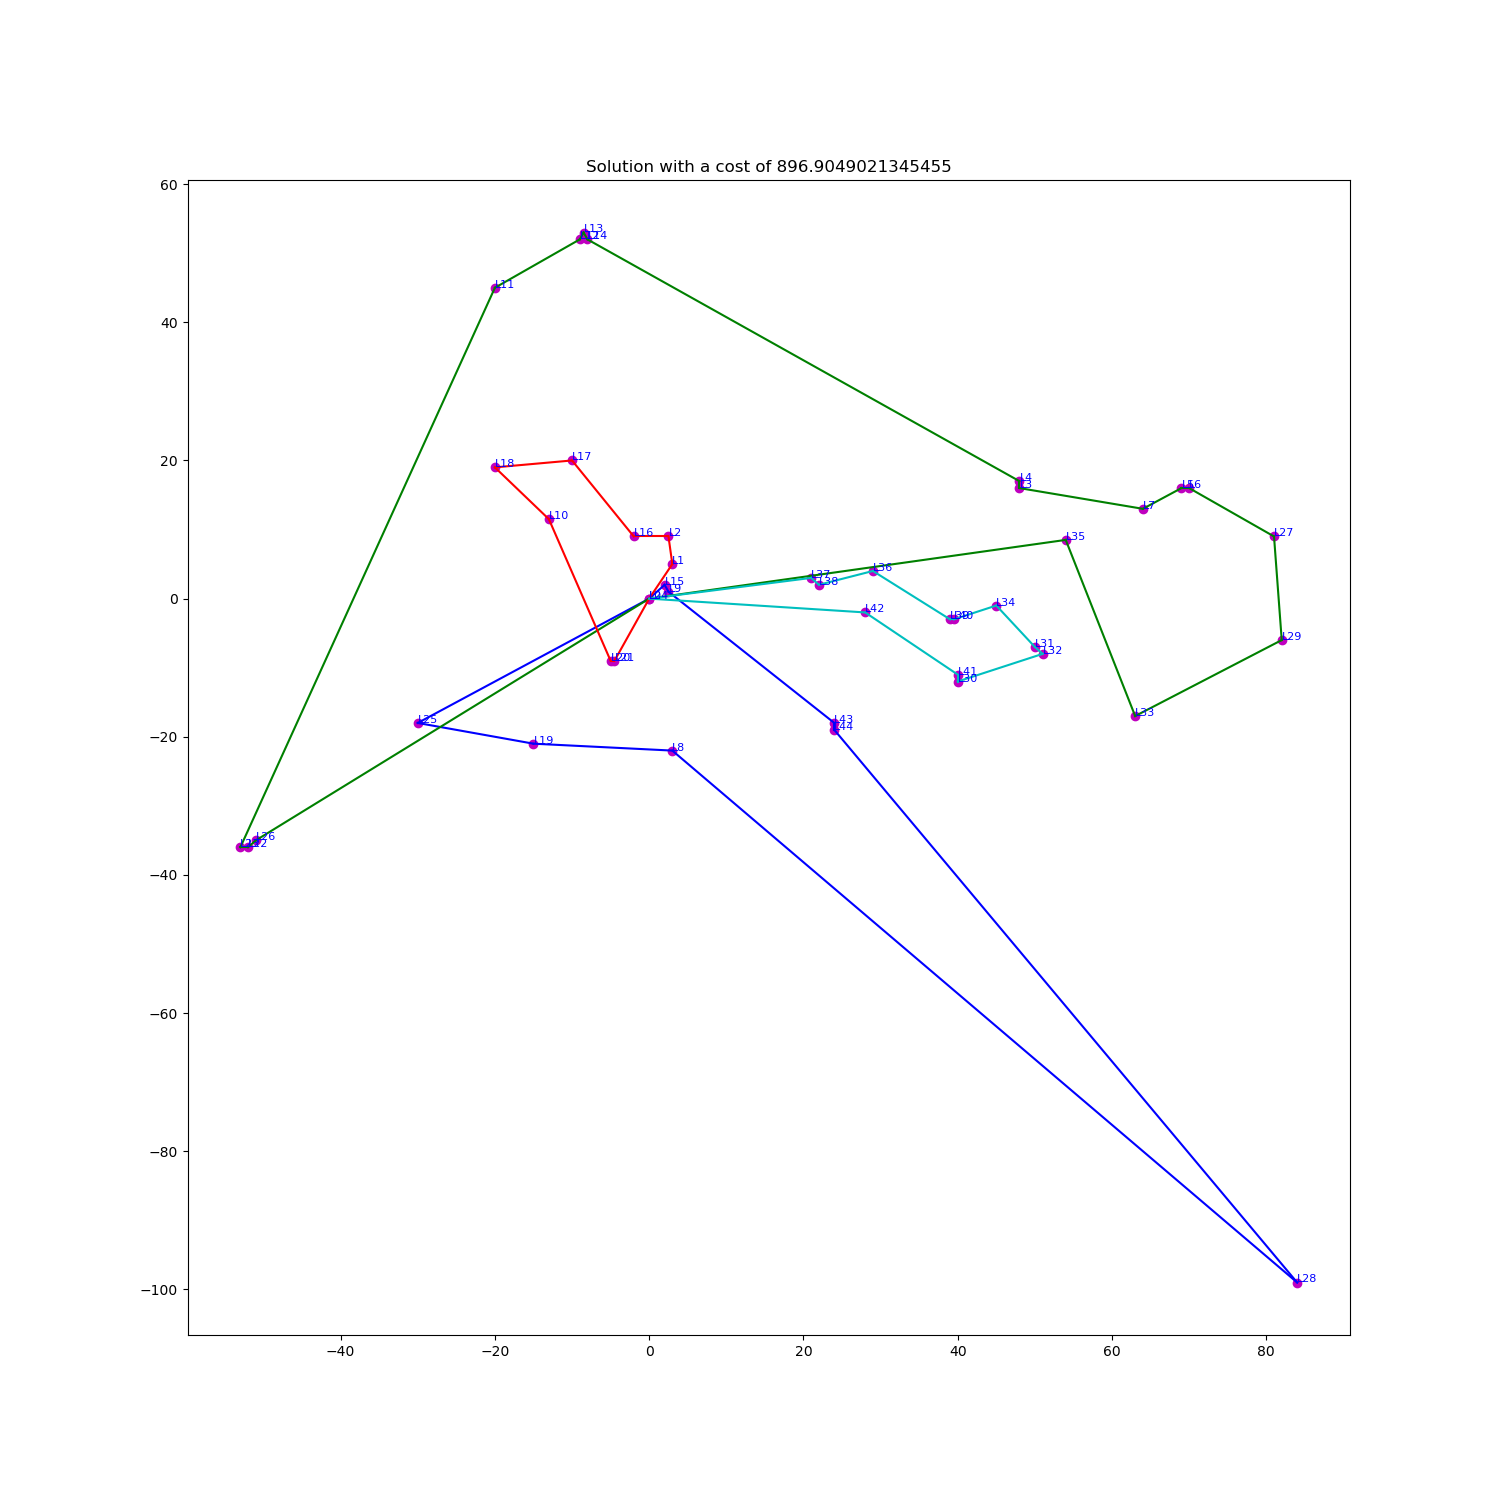
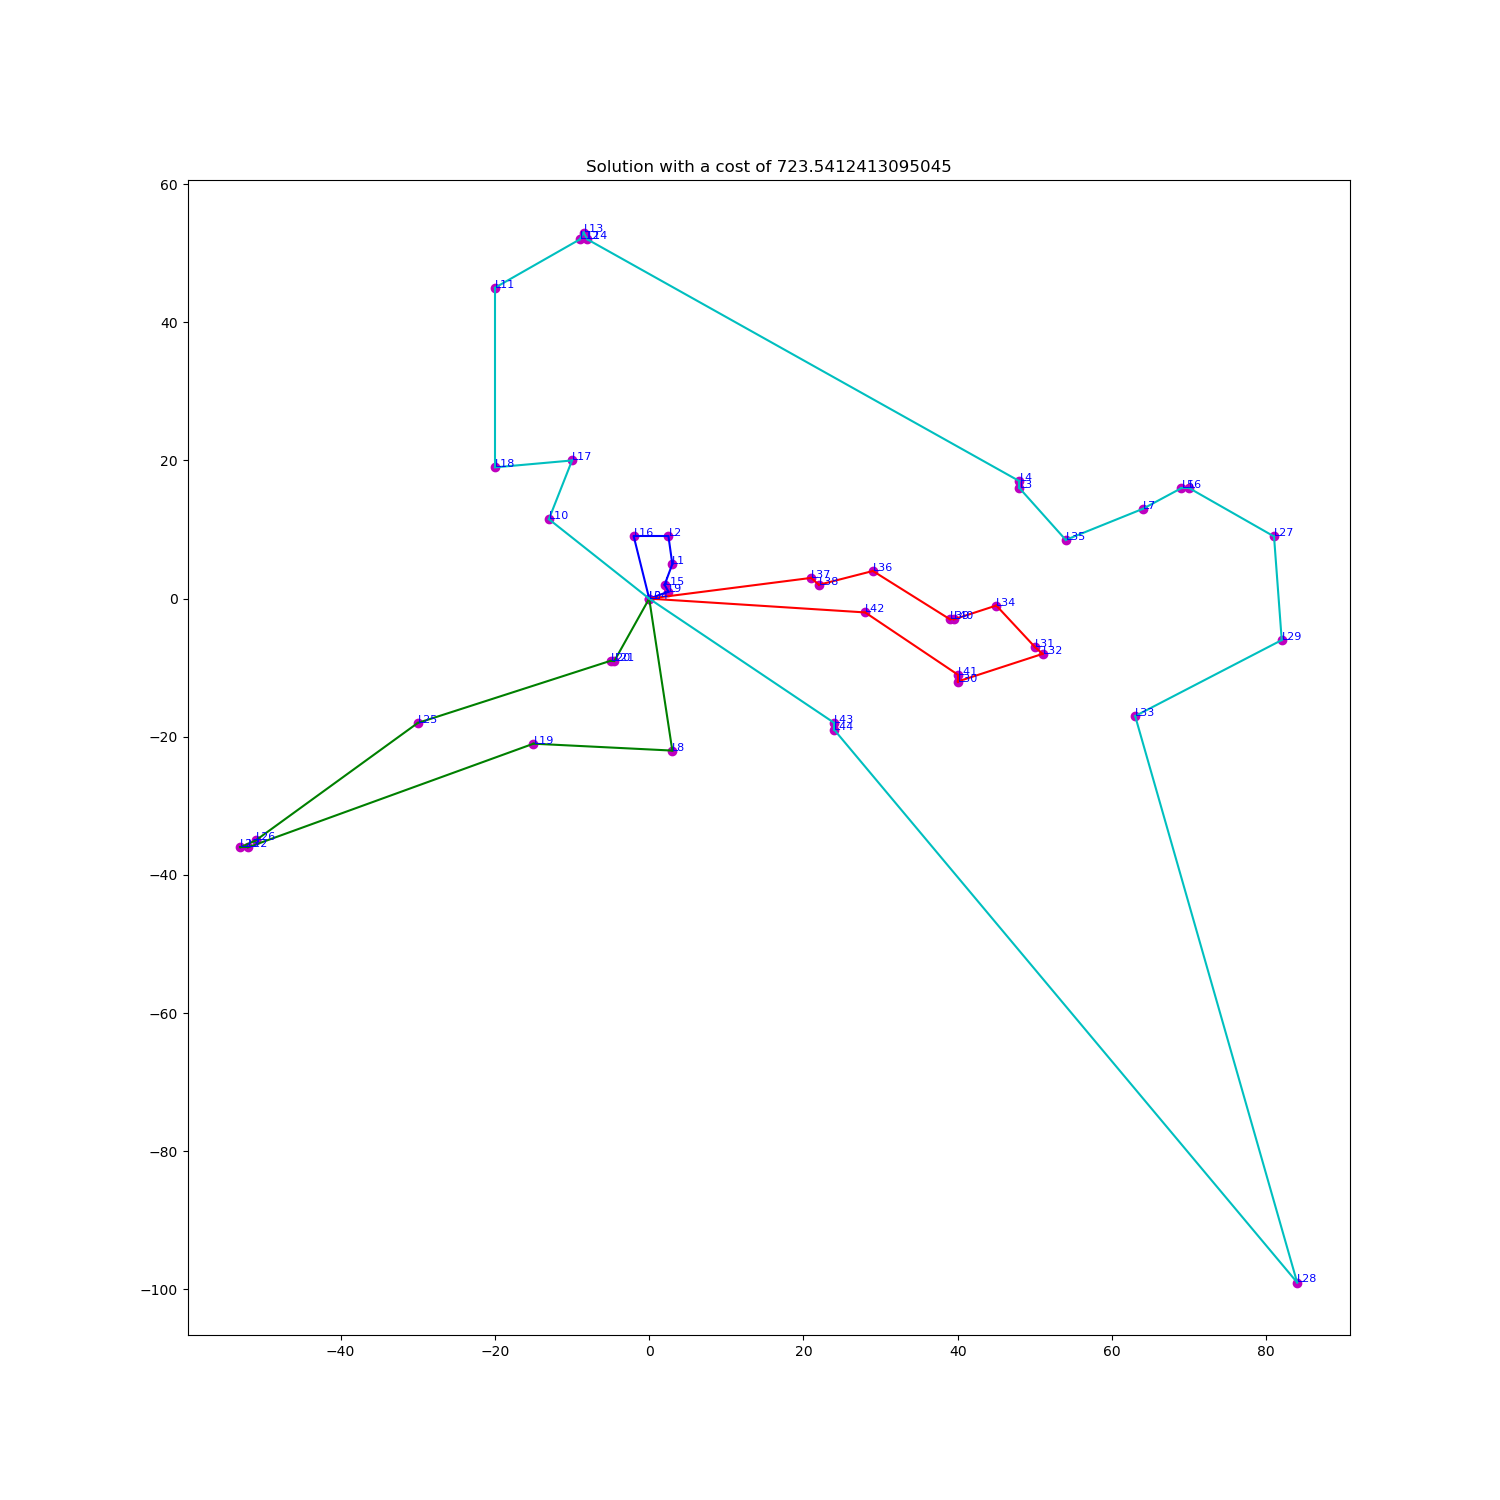
final code

diff --git a/solver.py b/solver.py
@@ -155,7 +155,8 @@ def kMeans(k,W,clients):
         for r in routes:
             r.append(0)
 
-        if areRoutesValid(routes,W,clients): return routes
+        if areRoutesValid(routes,W,clients): 
+            return routes
 
 
     # if routes not valid compared to total capacity of vehicles
@@ -199,6 +200,8 @@ def kMeans(k,W,clients):
                 # print(centroids_available_copy)
                 # get the closest centroid_available from the client
                 index_centroid_available = closestPoint(point_client,centroids_available_copy)
+                if index_centroid_available == None:
+                    return False
                 closest = centroids_available_copy[index_centroid_available]
                 # print("closest",closest)
 
@@ -219,30 +222,8 @@ def kMeans(k,W,clients):
 
     return routes
 
-
 def optimize_route(routes,clients,nb_iterations): 
-    # 2 opt, but with some tweaks
-    for i in range(len(routes)):
-        r = routes[i]
-        best = r
-        cost = getCost([r],clients)
-        route = r[1:-1]
-        for _ in range(nb_iterations):
-            p = list(permutations(range(len(route)),2))
-            random.shuffle(p)
-            for permut in p:
-                save = route[permut[0]]
-                route[permut[0]] = route[permut[1]]
-                route[permut[1]] = save # we keep the 2opt for the next one
-                new_route = [0] + route + [0]
-                new_cost = getCost([new_route],clients)
-                if new_cost < cost:
-                    best = new_route
-                    cost = new_cost
-        routes[i] = best
-    return routes
-
-def optimize_route2(routes,clients,nb_iterations): # real 2 opt
+    # 2 opt
     for i in range(len(routes)):
         r = routes[i]
         best = r
@@ -294,20 +275,26 @@ def generate_neighboorhood(routes):
                         neighbors.append(new_routes)
     return neighbors
 
-def generate_neighboorhood2(routes):
-    # for each client
-    # we create a new neighbor where that client can be in any other vehicle client list
-    # at any position in the list
+def generate_neighboorhood_faster(routes,W,clients):
+    # for each client we create a new neighbor where that client can be in any other vehicle (taken at random) at a random position
+    # as we don't create a neighbor for each case, this function is faster than the previous one
+    # also we validate the neighbor before adding it, so no need to call validate neighborhood after
     neighbors = []
     for i in range(len(routes)):
         for j in range(1,len(routes[i])-1): # for each client
-            for k in range(len(routes)): # for each vehicle
-                if k != i: # we don't put the client in the same vehicle client list
-                    insert_at = random.randint(1,len(routes)-2)
-                    new_routes = copy.deepcopy(routes)
-                    id = new_routes[i].pop(j) # remove the client from inial positon
-                    list.insert(new_routes[k],insert_at,id) # insert in new position
-                    neighbors.append(new_routes)
+            insert_in = [var_ for var_ in range(len(routes))]
+            insert_in.pop(i)
+            k = random.choice(insert_in) # random route to insert client
+            # sum = 0
+            # r = routes[k]
+            # for c in r:
+            #     sum += clients[c].demande
+            # if sum + clients[routes[i][j]].demande <= W and r[0] == 0 and r[-1] == 0:
+            insert_at = random.randint(1,len(routes)-2)
+            new_routes = copy.deepcopy(routes)
+            id = new_routes[i].pop(j) # remove the client from inial positon
+            list.insert(new_routes[k],insert_at,id) # insert in new position random
+            neighbors.append(new_routes)
     return neighbors
 
 
@@ -342,74 +329,89 @@ def solve_advance(n, k, W, points):
              routes is a list of list of int describing the routes of the vehicules
     """
     # TODO implement here your solution
-    # get time
-    start_time = time.time()
+
+    total_time = time.time()
 
     clients = [Client(i,p[0],Point(*p[1],)) for i,p in enumerate(points)]
     # id = 0 is storage
 
-    s = kMeans(k,W,clients)
-    s = optimize_route2(s,clients,50)
-    # s = greedy_routes(k,W,clients)
+    best_s = None
+    best_f = 1e10
 
-    # nb_iterations = 1000
-    T = 1
-    alphaT = 0.9
-    # scaling coefficient for reinitializing temp
-    betaT = 100
-
-    fs = getCost(s,clients)
-    star = s
-    fstar = fs
-    fstar_prev = fstar
-
-    re_count = 0
-    re_lim = 20
+    nb_restart = 30
+    for _ in range(nb_restart):
+        print("START")
+        # get time
+        start_time = time.time()
 
 
-    iterations_for_2opt = 10
-    k = 0
-    execution_time = 2 # in minutes
-    change = True
-    while time.time() - start_time < execution_time * 60:
-        if k % 500 == 0: 
-            print(k,fs)
-        if change:
+        s = kMeans(k,W,clients)
+        while s == False:
+            s = kMeans(k,W,clients)
+        # s = greedy_routes(k,W,clients)
+        s = optimize_route(s,clients,15)
+
+        T = 5
+        maxT = T
+        alphaT = 0.97
+        betaT = 2 # scaling coefficient for reheating
+
+        fs = getCost(s,clients)
+        star = s
+        fstar = fs
+
+        re_count = 0
+        re_lim = 30
+
+        iterations_for_2opt = 1
+        i = 0
+        execution_time = 10 / nb_restart # in minutes
+        # execution_time = 0.5 # in minutes
+        change = True
+        while time.time() - start_time < execution_time * 60:
+            # if i % 500 == 0: print(i,fs)
             if re_count >= re_lim:
                 # if restart limit has be reached, we regenerate neighborhood on best solution
                 # Restart on previous best's neighborhood
-                G = generate_neighboorhood(star)
+                # G = generate_neighboorhood(star)
                 re_count = 0 # reset counter
-                T *= betaT # "reheat the algorithm" = increase T
-            else:
+                T = min(T + betaT, maxT) # "reheat the algorithm" = increase T, but shouldn't go too hot
+                print(T)
+            if change:
                 # if we keep the same s, no use to redo generation and validation
+                # G = generate_neighboorhood_faster(s,W,clients)
                 G = generate_neighboorhood(s)
-            V = validate_neighboorhood(G, clients, W)
-            change = False
-        c = V[random.randint(0,len(V)-1)]
-        c = optimize_route(c,clients,iterations_for_2opt)
-        fc = getCost(c,clients)
-        delta = fc - fs
-        if delta <= 0 or random.random() < math.exp(-delta/T):
-            s = c
-            fs = fc
-            if fs < fstar:
-                # if we improve the best sol'n, restart counter resets
-                re_count = 0
-                star = s
-                fstar = fs
-                T = alphaT * T
-                print(k,fstar)
-            if fstar_prev == fstar:
+                V = validate_neighboorhood(G, clients, W)
+                change = False
+            c = V[random.randint(0,len(V)-1)]
+            c = optimize_route(c,clients,iterations_for_2opt)
+            fc = getCost(c,clients)
+            delta = fc - fs
+            if delta <= 0 or random.random() < math.exp(-delta/T):
+                change = True
+                s = c
+                fs = fc
+                if fs < fstar:
+                    # if we improve the best solution, restart counter resets
+                    re_count = 0
+                    star = s
+                    fstar = fs
+                    print(i,fstar,T)
+            else:
                 # count up to restart limit
                 re_count += 1
-            change = True
-        fstar_prev = fstar
-        k += 1
+            T = alphaT * T
+            i += 1
 
-    print("before opt",fstar)
-    star = optimize_route2(star,clients,50)
-    fstar = getCost(star,clients)
-    print("after opt",fstar)
-    print("--- %s seconds ---" % (time.time() - start_time).__round__())
-    return fstar, star
+        star = optimize_route(star,clients,2) # last optimization
+        fstar = getCost(star,clients)
+        if fstar < best_f:
+            print("NEW BEST",fstar)
+            best_f = fstar
+            best_s = star
+
+        print("--- %s seconds ---" % (time.time() - start_time).__round__())
+
+    print("--- Total Time %s seconds ---" % (time.time() - total_time).__round__())
+
+    return best_f, best_s
